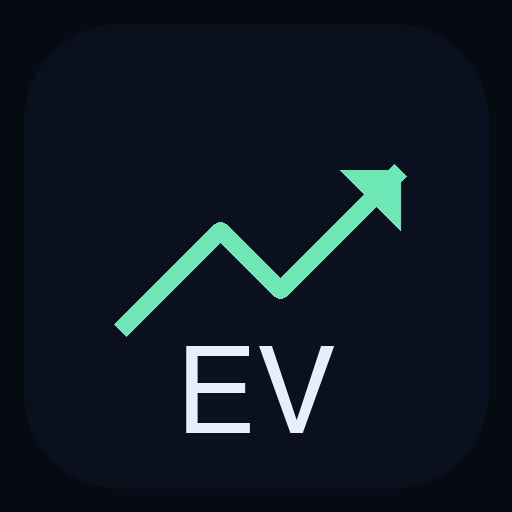
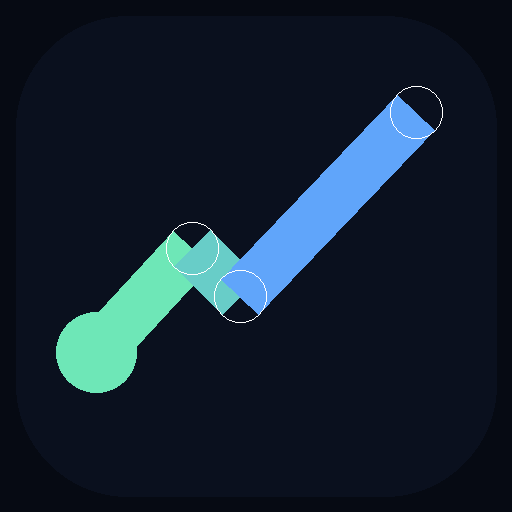
Brand identity: the "Verdict Tick" mark
A rising price line whose final leg IS a checkmark — the chart and the
judgment in one gesture, mint-to-blue on the Aurora dark card. Replaces
the template favicon and the generic lucide TrendingUp in every brand
masthead (sidebar, landing, auth modal) via components/BrandMark.jsx;
PWA icons regenerated to match. Playwright 5/5.

Changed region(s): [[0.0938, 0.1875, 0.8438, 0.7812], [0.3438, 0.6562, 0.6562, 0.8438]]

diff --git a/src/App.jsx b/src/App.jsx
@@ -6,6 +6,7 @@
 import { useEffect, useMemo, useState, useCallback, useRef, lazy, Suspense } from "react";
 import { TrendingUp, LayoutDashboard, List, Star, GitCompare, CalendarClock, Landmark, Gauge, History, Layers, Briefcase, Search, Loader2, LogIn, LogOut, ChevronDown, Sparkles , Rocket , PiggyBank , Globe2 , Boxes } from "lucide-react";
 import { C, mono, sans, serif, auroraBg } from "./lib/theme.js";
+import BrandMark from "./components/BrandMark.jsx";
 import { useIsMobile } from "./lib/useResponsive.js";
 import { SEED, buildFromApi } from "./lib/seedData.js";
 import PageSkeleton from "./components/Skeleton.jsx";
@@ -421,7 +422,7 @@ export default function App() {
           background: "rgba(8,13,26,0.78)", backdropFilter: "blur(16px)",
         }}>
           <div style={{ display: "flex", alignItems: "center", gap: 9, padding: "2px 8px 14px" }}>
-            <TrendingUp size={20} color={C.gold} strokeWidth={1.8} />
+            <BrandMark size={22} />
             <span style={{ ...serif, fontSize: 18, fontWeight: 600, color: C.text }}>EquityVerdict</span>
           </div>
 
@@ -519,7 +520,7 @@ export default function App() {
           display: "flex", alignItems: "center", gap: 10,
           padding: "13px 16px", borderBottom: `1px solid ${C.line}`,
         }}>
-          <TrendingUp size={19} color={C.gold} strokeWidth={1.8} />
+          <BrandMark size={21} />
           <span style={{ ...serif, fontSize: 18, fontWeight: 600, color: C.text }}>EquityVerdict</span>
           <button onClick={() => setPaletteOpen(true)} aria-label="Search" style={{
             marginLeft: "auto", display: "flex", padding: 8, borderRadius: 9, cursor: "pointer",

diff --git a/src/components/Landing.jsx b/src/components/Landing.jsx
@@ -8,6 +8,7 @@
 import { useState } from "react";
 import { TrendingUp, ShieldCheck, LineChart, Sparkles, History, LogIn } from "lucide-react";
 import { C, mono, sans, serif } from "../lib/theme.js";
+import BrandMark from "./BrandMark.jsx";
 import { useIsMobile } from "../lib/useResponsive.js";
 import PrivacyPolicy from "./PrivacyPolicy.jsx";
 
@@ -43,7 +44,7 @@ export default function Landing({ onSignIn }) {
     <div style={{ minHeight: "100vh", display: "flex", flexDirection: "column" }}>
       {/* Header */}
       <header style={{ display: "flex", alignItems: "center", gap: 9, padding: `18px ${PAD}px`, borderBottom: `1px solid ${C.line}` }}>
-        <TrendingUp size={20} color={C.gold} strokeWidth={1.8} />
+        <BrandMark size={22} />
         <span style={{ ...serif, fontSize: 22, color: C.text }}>EquityVerdict</span>
         <button onClick={onSignIn} style={{
           ...sans, display: "flex", alignItems: "center", gap: 7, marginLeft: "auto",

diff --git a/src/components/BrandMark.jsx b/src/components/BrandMark.jsx
@@ -1,0 +1,20 @@
+/* BrandMark — the EquityVerdict "Verdict Tick": a rising price line whose
+   final leg IS a checkmark (chart + judgment in one gesture). Replaces the
+   generic lucide TrendingUp everywhere the BRAND (not a trend) is meant. */
+export default function BrandMark({ size = 20, boxed = false }) {
+  return (
+    <svg width={size} height={size} viewBox="0 0 64 64" aria-label="EquityVerdict">
+      <defs>
+        <linearGradient id="evbrand" x1="0" y1="1" x2="1" y2="0">
+          <stop offset="0" stopColor="#6EE7B7" />
+          <stop offset="1" stopColor="#60A5FA" />
+        </linearGradient>
+      </defs>
+      {boxed && <rect x="2" y="2" width="60" height="60" rx="14" fill="#0A101E" />}
+      <path d="M 12 44 L 24 31 L 30 37 L 52 14" fill="none"
+        stroke="url(#evbrand)" strokeWidth="7"
+        strokeLinecap="round" strokeLinejoin="round" />
+      <circle cx="12" cy="44" r="3.6" fill="#6EE7B7" />
+    </svg>
+  );
+}

diff --git a/src/components/AuthModal.jsx b/src/components/AuthModal.jsx
@@ -6,6 +6,7 @@
 import { useEffect, useRef, useState } from "react";
 import { TrendingUp, Loader2, Lock } from "lucide-react";
 import { C, mono, sans, serif } from "../lib/theme.js";
+import BrandMark from "./BrandMark.jsx";
 import { login, signup, verifySignup, resendCode } from "../lib/auth.js";
 import PrivacyPolicy from "./PrivacyPolicy.jsx";
 
@@ -93,7 +94,7 @@ export default function AuthModal({ open, onClose, API, onAuthed }) {
         {/* Masthead */}
         <div style={{ padding: "26px 28px 18px", textAlign: "center", borderBottom: `1px solid ${C.line}` }}>
           <div style={{ display: "inline-flex", alignItems: "center", gap: 9 }}>
-            <TrendingUp size={19} color={C.gold} strokeWidth={1.8} />
+            <BrandMark size={21} />
             <span style={{ ...serif, fontSize: 24, color: C.text }}>EquityVerdict</span>
           </div>
           <div style={{ ...sans, fontSize: 12, color: C.faint, marginTop: 6 }}>
